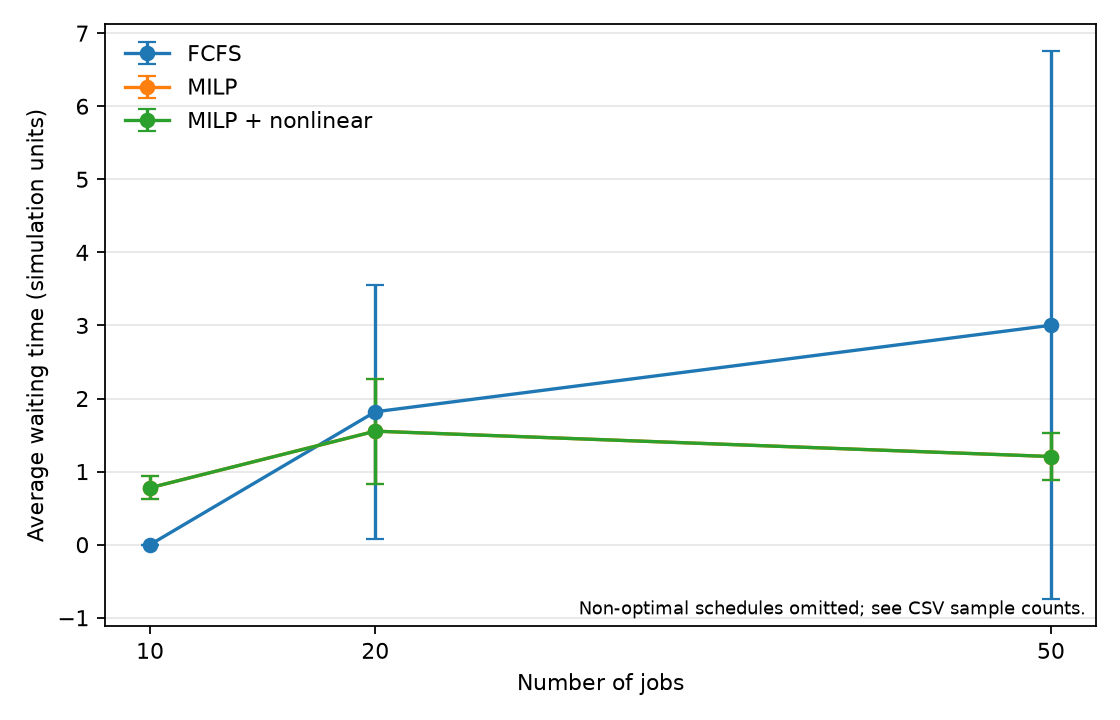
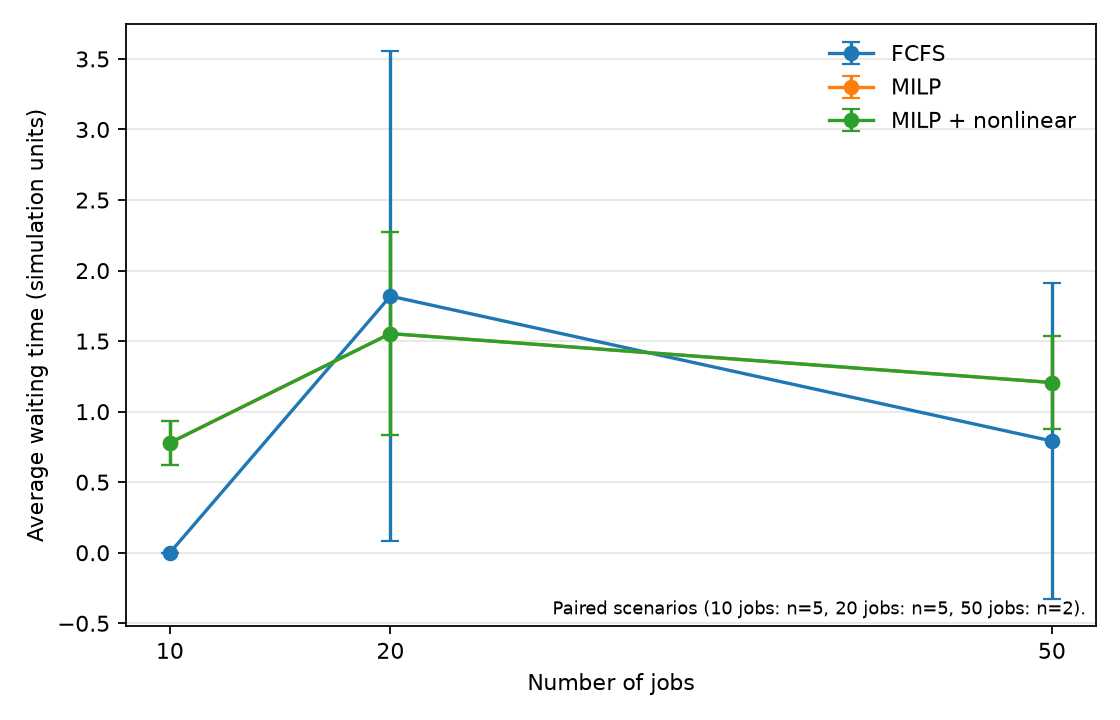
Refine benchmark plots and finalise project documentation

diff --git a/experiments/benchmark.py b/experiments/benchmark.py
@@ -225,35 +225,62 @@ def aggregate_paired_results(results: pd.DataFrame) -> pd.DataFrame:
     return aggregate_results(paired)
 
 
-def create_plots(summary: pd.DataFrame, output_dir: Path) -> list[Path]:
-    """Write five simple mean-and-standard-deviation benchmark figures."""
+def create_plots(
+    summary: pd.DataFrame,
+    paired_summary: pd.DataFrame,
+    output_dir: Path,
+) -> list[Path]:
+    """Write paired comparison plots and an all-attempt MILP timing plot."""
 
     specifications = (
         (
             "average_waiting_time",
             "Average waiting time (simulation units)",
             "average_waiting_time.png",
-            METHODS,
+            paired_summary,
+            tuple((method, method) for method in METHODS),
         ),
-        ("makespan", "Makespan (simulation units)", "makespan.png", METHODS),
-        ("deadline_misses", "Deadline misses", "deadline_misses.png", METHODS),
+        (
+            "makespan",
+            "Makespan (simulation units)",
+            "makespan.png",
+            paired_summary,
+            tuple((method, method) for method in METHODS),
+        ),
+        (
+            "deadline_misses",
+            "Deadline misses",
+            "deadline_misses.png",
+            paired_summary,
+            tuple((method, method) for method in METHODS),
+        ),
         (
             "gpu_energy_kwh",
             "Estimated dynamic GPU energy (kWh)",
             "gpu_energy.png",
-            METHODS,
+            paired_summary,
+            (
+                ("FCFS", "Full power (FCFS / MILP)"),
+                ("MILP + nonlinear", "MILP + nonlinear"),
+            ),
         ),
         (
             "milp_solve_time_seconds",
             "MILP solve time (seconds)",
             "milp_solve_time.png",
-            ("MILP",),
+            summary,
+            (("MILP", "MILP"),),
         ),
     )
     paths: list[Path] = []
-    for metric, ylabel, filename, methods in specifications:
+    for metric, ylabel, filename, plot_summary, series in specifications:
         path = output_dir / filename
-        _plot_metric(summary, metric, ylabel, path, methods)
+        note = (
+            _paired_sample_note(paired_summary)
+            if plot_summary is paired_summary
+            else None
+        )
+        _plot_metric(plot_summary, metric, ylabel, path, series, note=note)
         paths.append(path)
     return paths
 
@@ -263,19 +290,13 @@ def _plot_metric(
     metric: str,
     ylabel: str,
     path: Path,
-    methods: Sequence[str],
+    series: Sequence[tuple[str, str]],
+    *,
+    note: str | None = None,
 ) -> None:
     figure, axis = plt.subplots(figsize=(7.0, 4.5))
-    omitted_failures = False
-    for method in methods:
+    for method, label in series:
         method_rows = summary[summary["method"] == method].sort_values("number_jobs")
-        if metric != "milp_solve_time_seconds":
-            omitted_failures = omitted_failures or bool(
-                (
-                    method_rows["successful_scenarios"]
-                    < method_rows["scenario_count"]
-                ).any()
-            )
         valid = method_rows[f"{metric}_mean"].notna()
         method_rows = method_rows[valid]
         if method_rows.empty:
@@ -288,7 +309,7 @@ def _plot_metric(
             marker="o",
             capsize=4,
             linewidth=1.5,
-            label=method,
+            label=label,
         )
 
     axis.set_xlabel("Number of jobs")
@@ -296,11 +317,11 @@ def _plot_metric(
     axis.set_xticks(sorted(summary["number_jobs"].unique()))
     axis.grid(axis="y", alpha=0.3)
     axis.legend(frameon=False)
-    if omitted_failures:
+    if note:
         axis.text(
             0.99,
             0.02,
-            "Non-optimal schedules omitted; see CSV sample counts.",
+            note,
             transform=axis.transAxes,
             horizontalalignment="right",
             fontsize=8,
@@ -308,6 +329,19 @@ def _plot_metric(
     figure.tight_layout()
     figure.savefig(path, dpi=160)
     plt.close(figure)
+
+
+def _paired_sample_note(paired_summary: pd.DataFrame) -> str:
+    counts = (
+        paired_summary[paired_summary["method"].eq("FCFS")]
+        .sort_values("number_jobs")
+        .loc[:, ["number_jobs", "scenario_count"]]
+    )
+    samples = ", ".join(
+        f"{int(row.number_jobs)} jobs: n={int(row.scenario_count)}"
+        for row in counts.itertuples(index=False)
+    )
+    return f"Paired scenarios ({samples})."
 
 
 def _result_row(
@@ -438,7 +472,7 @@ def main(argv: Sequence[str] | None = None) -> int:
     results.to_csv(raw_path, index=False, na_rep="")
     summary.to_csv(summary_path, index=False, na_rep="")
     paired_summary.to_csv(paired_summary_path, index=False, na_rep="")
-    plot_paths = create_plots(summary, output_dir)
+    plot_paths = create_plots(summary, paired_summary, output_dir)
 
     print(f"\nRaw results: {raw_path}")
     print(f"Summary:     {summary_path}")

diff --git a/README.md b/README.md
@@ -250,11 +250,14 @@ The corresponding increase in solve time is a practical limitation of the time-i
 
 ![Estimated GPU energy by workload size](results/gpu_energy.png)
 
-Across successful MILP schedules, nonlinear optimisation produced modest estimated energy reductions by extending GPU-job runtimes within their existing reserved windows.
+Across paired successful MILP schedules, nonlinear optimisation produced modest estimated energy reductions by extending GPU-job runtimes within their existing reserved windows.
 
 An increase in GPU utilisation after power reduction can simply mean that jobs occupy the GPU for longer. It should not by itself be interpreted as improved computational efficiency.
 
-The 50-job nonlinear result includes only the two scenarios for which the MILP was proven optimal, as indicated on the plot.
+Every method at a given workload size is plotted over the same seeds. The
+50-job points therefore include only the two scenarios for which the MILP was
+proven optimal. FCFS and MILP share one full-power series because their
+estimated full-power GPU energy is identical by construction.
 
 ## Benchmark plots
 
@@ -266,9 +269,10 @@ The 50-job nonlinear result includes only the two scenarios for which the MILP w
 
 ![Deadline misses by workload size](results/deadline_misses.png)
 
-Error bars show sample standard deviation across the available seeds.
-
-The plots mark cases where non-optimal schedules were omitted. For like-for-like comparisons between methods, use the paired benchmark summary.
+Error bars show sample standard deviation across paired seeds, and each
+annotation reports the corresponding sample counts. The MILP solve-time plot is
+the exception: it includes all attempts, including those without an optimality
+proof.
 
 ## Running the project
 
